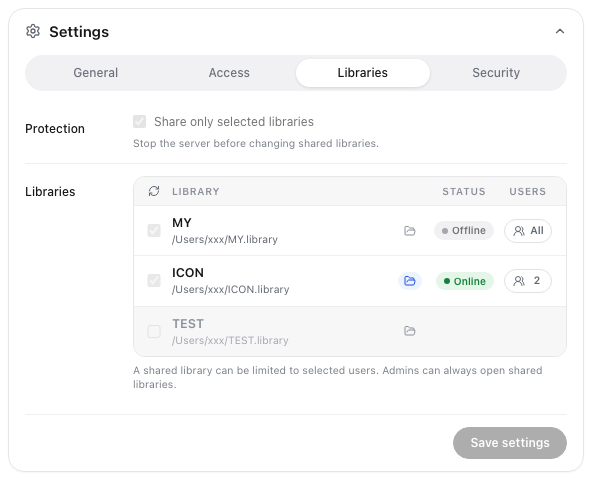
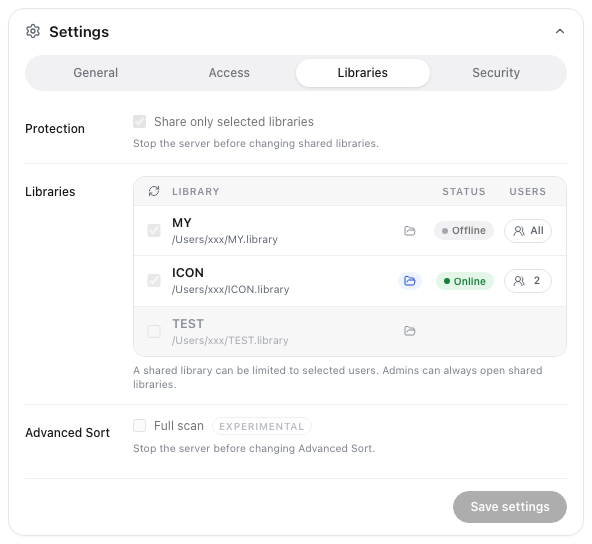
feat: add experimentalSort setting to plugin settings

diff --git a/scripts/settings-screenshots.entry.tsx b/scripts/settings-screenshots.entry.tsx
@@ -24,6 +24,8 @@ const settings: PluginSettings = {
   httpsCertPath: "/Users/xxx/127.0.0.1+2.pem",
   httpsKeyPath: "/Users/xxx/127.0.0.1+2-key.pem",
   libraryProtectionEnabled: true,
+  // Advanced Sort is shown off, its default.
+  experimentalSort: false,
   port: 41532,
   sessionDurationDays: 7,
   sharedLibraries,
